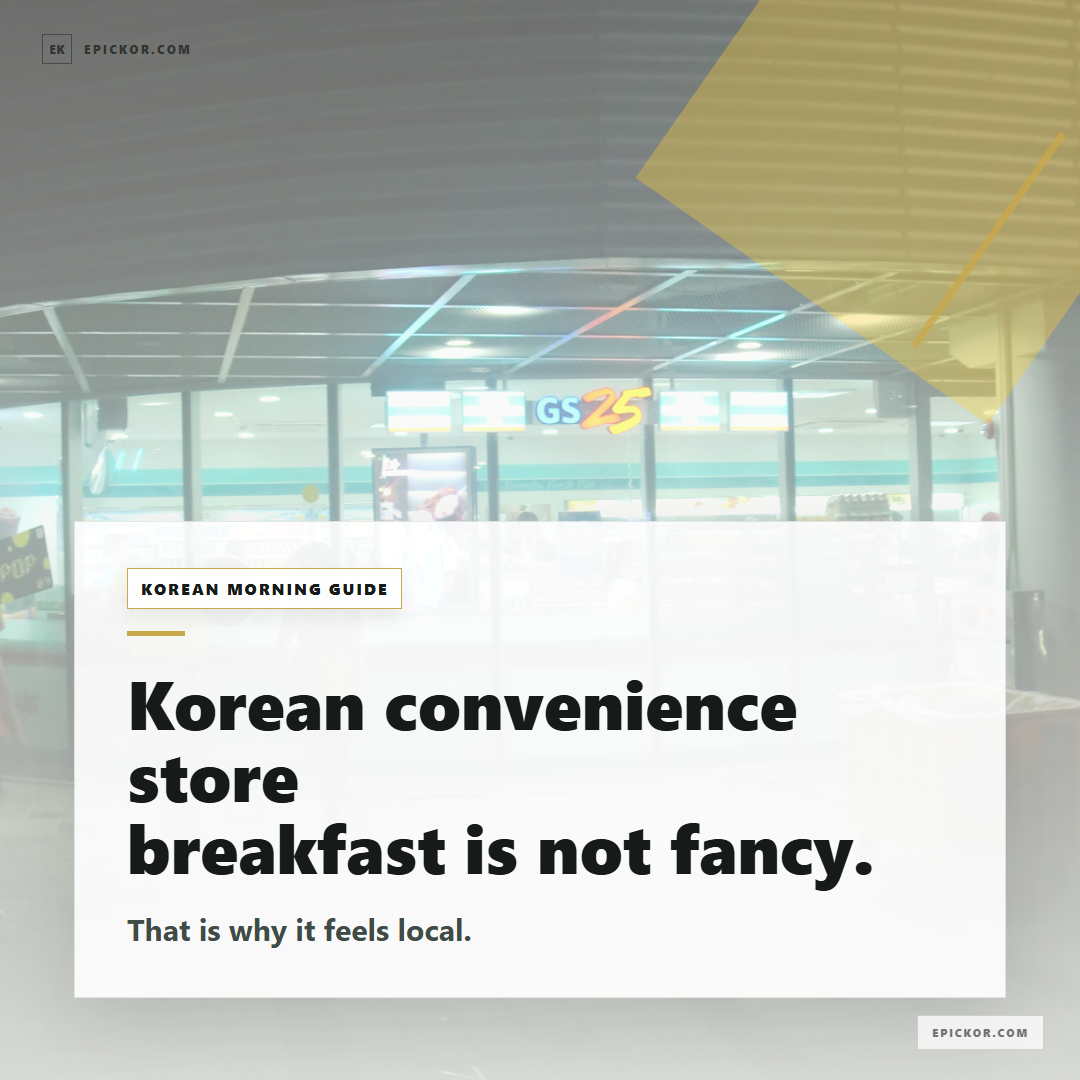
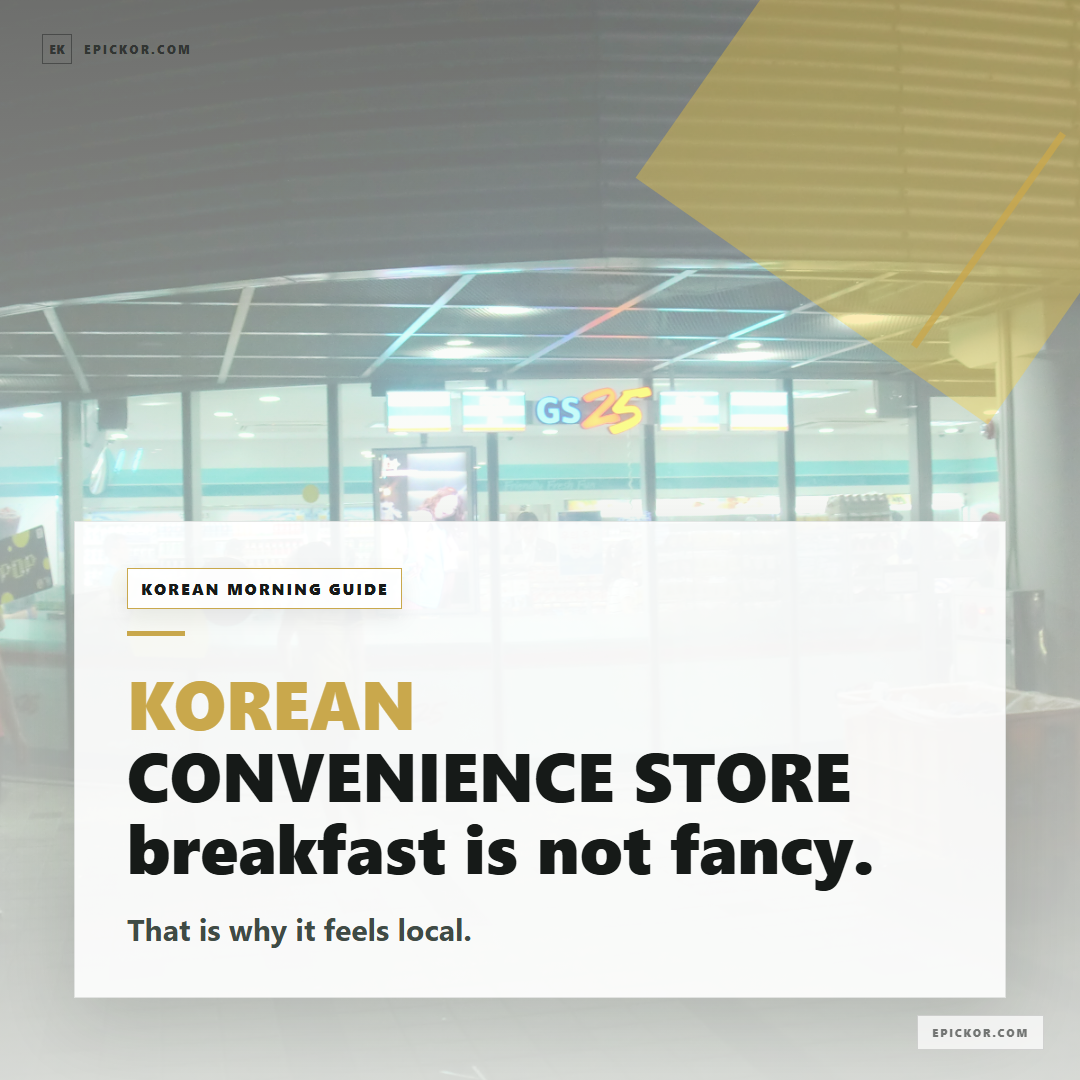
Adjust breakfast card cover title

Changed region(s): [[0.1222, 0.6111, 0.7944, 0.7639]]

diff --git a/public/assets/cardnews/171/script.md b/public/assets/cardnews/171/script.md
@@ -16,7 +16,7 @@ image_zoom: 1.02
 image_position: center center
 image_label: GS25 in Korea
 
-**Main:** Korean convenience store\nbreakfast is not fancy.
+**Main:** <span style="color:#C9A84C">KOREAN</span>\nCONVENIENCE STORE\nbreakfast is not fancy.
 **Sub:** That is why it feels local.
 
 ---
